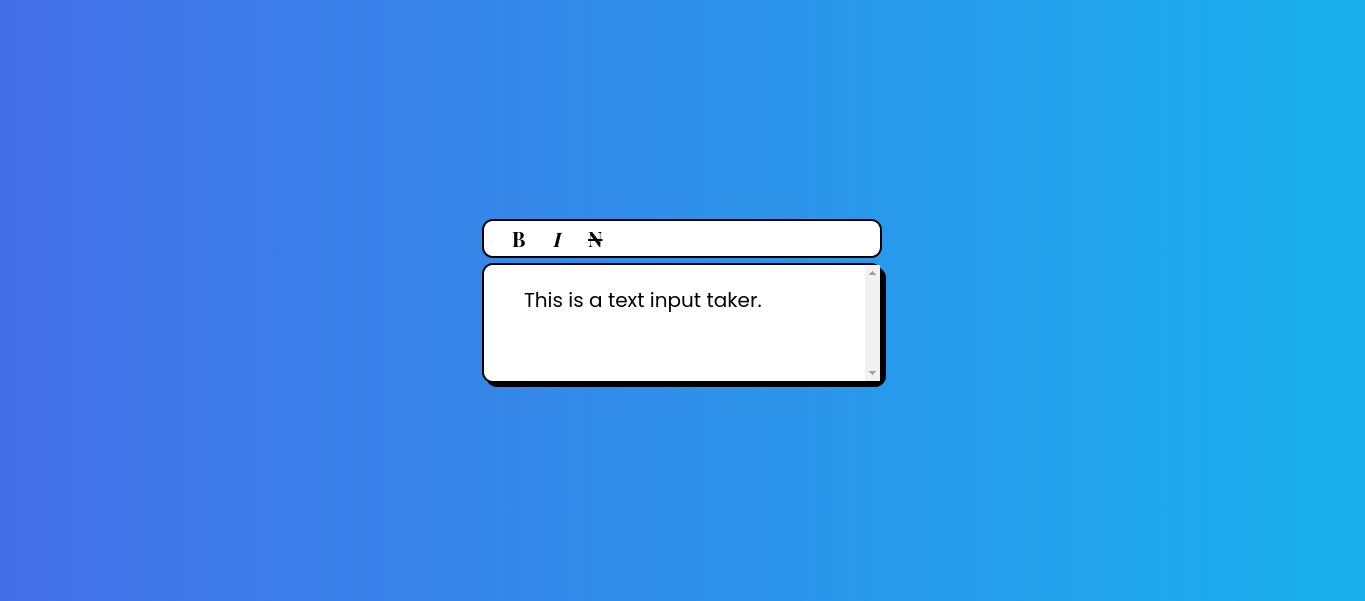
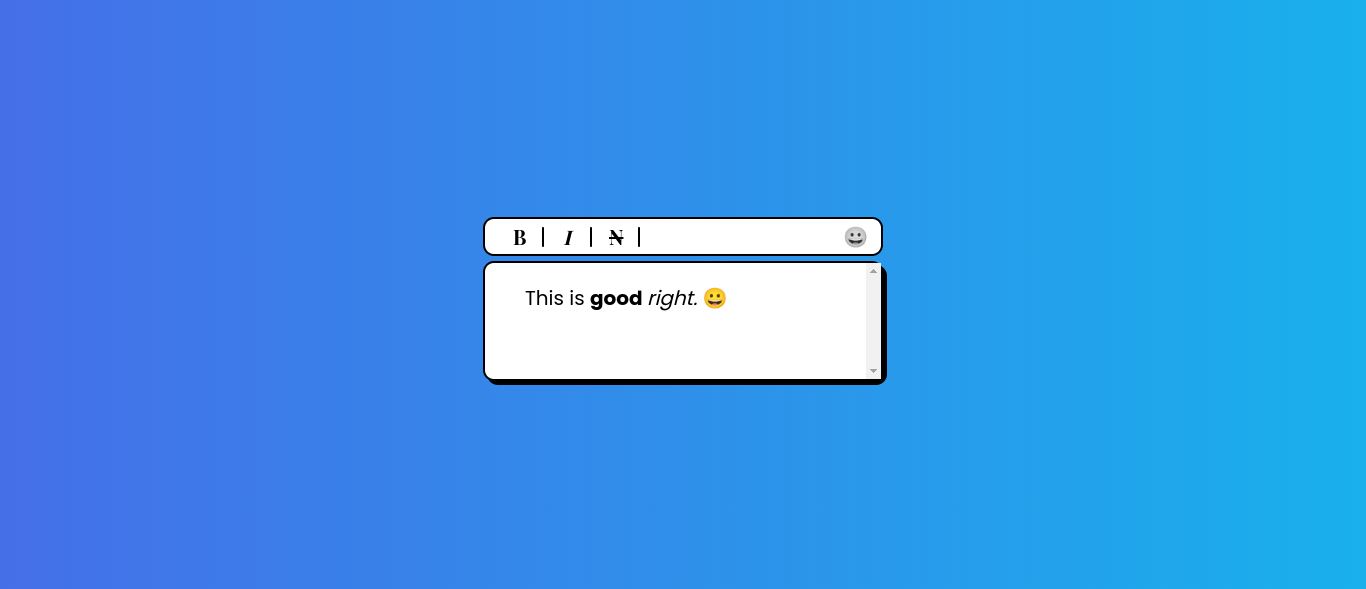
🌟 Add emoji's and fix bold, italics styles

Changed region(s): [[0.3385, 0.3362, 0.6462, 0.4584], [0.3385, 0.6112, 0.6462, 0.6723], [0.3692, 0.489, 0.5538, 0.5195]]

diff --git a/index.js b/index.js
@@ -5,95 +5,91 @@ const formDiv = document.querySelector(".form__div");
 const optionBold = document.querySelector(".option__b");
 const optionItalics = document.querySelector(".option__i");
 const optionNone = document.querySelector(".option__n");
+const optionEmoji = document.querySelector(".option__e");
+
+const emojiBox = document.querySelector(".emoji-box");
+const emojiOptions = document.querySelectorAll(".emoji-option");
 
 let formInputValue = [];
 let formInputValueBold = "";
 let formInputValueItalics = "";
 let formInputValueNone = "";
+let formInputValueEmoji = "";
 
 let currentStyle = "none";
-let previousStyle = "none";
 
 let currentInputStackLength = 0;
 
-let parts = 0;
+optionNone.addEventListener("click", (event) => {
+  currentStyle = "none";
+  currentInputStackLength = formInputValue.length;
+  formInputValueBold = "";
+  formInputValueItalics = "";
+});
+
+optionBold.addEventListener("click", (event) => {
+  currentStyle = "bold";
+  currentInputStackLength = formInputValue.length;
+  formInputValueNone = "";
+  formInputValueItalics = "";
+});
+
+optionItalics.addEventListener("click", (event) => {
+  currentStyle = "italics";
+  currentInputStackLength = formInputValue.length;
+  formInputValueNone = "";
+  formInputValueBold = "";
+});
+
+optionEmoji.addEventListener("click", (event) => {
+  currentStyle = "emoji";
+  currentStyle = "italics";
+
+  formInputValueNone = "";
+  formInputValueBold = "";
+  formInputValueItalics = "";
+
+  emojiBox.classList.toggle("u-display-flex");
+
+  emojiOptions.forEach((emoji) =>
+    emoji.addEventListener("click", () => {
+      formInputValueEmoji = emoji;
+      formInputValue.push(formInputValueEmoji.textContent);
+      currentInputStackLength = formInputValue.length;
+      emojiBox.classList.toggle("u-display-flex");
+    })
+  );
+});
 
 formInput.addEventListener("keydown", (event) => {
-  optionNone.addEventListener("click", (event) => {
-    previousStyle = currentStyle;
-    currentStyle = "none";
-  });
-
-  optionBold.addEventListener("click", (event) => {
-    previousStyle = currentStyle;
-    currentStyle = "bold";
-  });
-
-  optionItalics.addEventListener("click", (event) => {
-    previousStyle = currentStyle;
-    currentStyle = "italics";
-  });
-
   if (event.key.length === 1) {
-    if (currentStyle == "none") {
-      if (formInputValue.length > currentInputStackLength) formInputValue.pop();
-
-      currentInputStackLength = formInputValue.length;
-
-      formInputValueNone += event.key;
-
-      formInputValue.push(formInputValueNone);
-
-      if (formInputValue.length !== currentInputStackLength) {
-        if (previousStyle == "bold") {
-          formInputValue.push(formInputValueBold);
-        } else if (previousStyle == "italics") {
-          formInputValue.push(formInputValueItalics);
-        }
-      }
-
-      formInputValueBold = "";
-      formInputValueItalics = "";
-    } else if (currentStyle == "bold") {
-      if (formInputValue.length > currentInputStackLength) formInputValue.pop();
-
-      currentInputStackLength = formInputValue.length;
-
-      formInputValueBold += event.key;
-
-      formInputValue.push(`<strong>${formInputValueBold}</strong>`);
-
-      if (formInputValue.length !== currentInputStackLength) {
-        if (previousStyle == "none") {
-          formInputValue.push(formInputValueNone);
-        } else if (previousStyle == "italics") {
-          formInputValue.push(formInputValueItalics);
-        }
-      }
-
-      formInputValueNone = "";
-      formInputValueItalics = "";
-    } else if (currentStyle == "italics") {
-      if (formInputValue.length > currentInputStackLength) formInputValue.pop();
-
-      currentInputStackLength = formInputValue.length;
-
-      formInputValueItalics += event.key;
-
-      formInputValue.push(`<em>${formInputValueItalics}</em>`);
-
-      if (formInputValue.length !== currentInputStackLength) {
-        if (previousStyle == "none") {
-          formInputValue.push(formInputValueNone);
-        } else if (previousStyle == "bold") {
-          formInputValue.push(formInputValueBold);
-        }
-      }
-
-      formInputValueNone = "";
-      formInputValueBold = "";
+    switch (currentStyle) {
+      case "none":
+        handleFormText(event.key, "none");
+        break;
+      case "bold":
+        handleFormText(event.key, "bold");
+        break;
+      case "italics":
+        handleFormText(event.key, "italics");
     }
   }
 
   formDiv.innerHTML = `<p class="form__p">${formInputValue.join(" ")}</p>`;
 });
+
+function handleFormText(key, type) {
+  console.log(formInputValue);
+  if (formInputValue.length > currentInputStackLength) formInputValue.pop();
+
+  if (type === "none") {
+    formInputValueNone += key;
+    formInputValue.push(formInputValueNone);
+  } else if (type === "bold") {
+    formInputValueBold += key;
+    formInputValue.push(`<strong>${formInputValueBold}</strong>`);
+  } else if (type === "italics") {
+    formInputValueItalics += key;
+    formInputValue.push(`<em>${formInputValueItalics}</em>`);
+  }
+}

diff --git a/style.css b/style.css
@@ -81,15 +81,19 @@ body {
 
   border: 2px solid #000;
   border-radius: 11px;
+
+  position: relative;
 }
 
 .option-container {
   display: flex;
   align-items: center;
   justify-content: flex-start;
-  gap: 1rem;
+  /* gap: 1rem; */
 
   padding: 0 0 0 2rem;
+
+  user-select: none;
 }
 
 .option {
@@ -107,13 +111,73 @@ body {
   cursor: pointer;
 }
 
-.option__b {
-}
-
 .option__i {
   font-style: italic;
 }
 
 .option__n {
   text-decoration: line-through;
+}
+
+.option__e {
+  filter: grayscale(1);
+
+  padding: 0.4rem 1.4rem;
+  transition: all 0.2s;
+}
+
+.option__e:hover {
+  filter: grayscale(0);
+  transform: scale(1.2);
+}
+
+hr {
+  width: 2rem;
+  transform: rotate(90deg);
+
+  border: 1px solid #000;
+  border-radius: 11px;
+}
+
+.emoji-container {
+  position: absolute;
+  top: 46%;
+  right: 6%;
+  transform: translateY(-50%);
+
+  user-select: none;
+}
+
+.emoji-box {
+  position: absolute;
+
+  bottom: 120%;
+  right: -30%;
+
+  background-color: #fff;
+
+  border: 2px solid #000;
+  border-radius: 11px;
+
+  display: none;
+}
+
+.emoji-option {
+  font-size: 1.8rem;
+
+  padding: 0.4rem 0.8rem;
+  cursor: pointer;
+
+  transition: all 0.2s;
+}
+
+.emoji-option:hover {
+  transform: translateY(-0.2rem);
+}
+
+.u-display-flex {
+  display: flex !important;
+  align-items: center;
+  justify-content: center;
+  gap: 1rem;
 }

diff --git a/index.html b/index.html
@@ -13,8 +13,22 @@
       <div class="form__container">
         <div class="option-container">
           <p class="option option__b">B</p>
+          <hr />
           <p class="option option__i">I</p>
+          <hr />
           <p class="option option__n">N</p>
+          <hr />
+        </div>
+
+        <div class="emoji-container">
+          <p class="option option__e">😀</p>
+
+          <div class="emoji-box">
+            <p class="emoji-option">😀</p>
+            <p class="emoji-option">😍</p>
+            <p class="emoji-option">😂</p>
+            <p class="emoji-option">👍</p>
+          </div>
         </div>
       </div>
 
